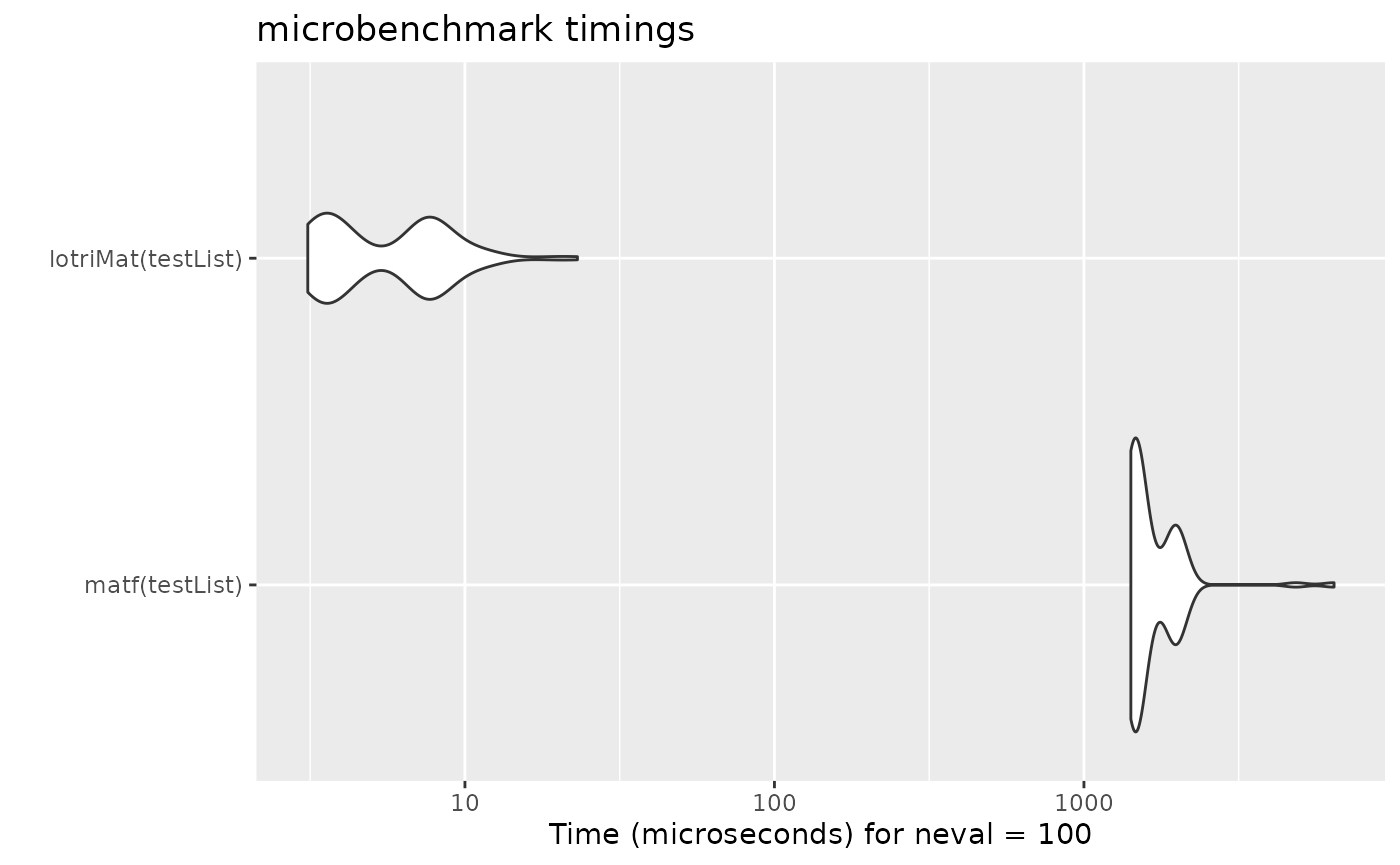
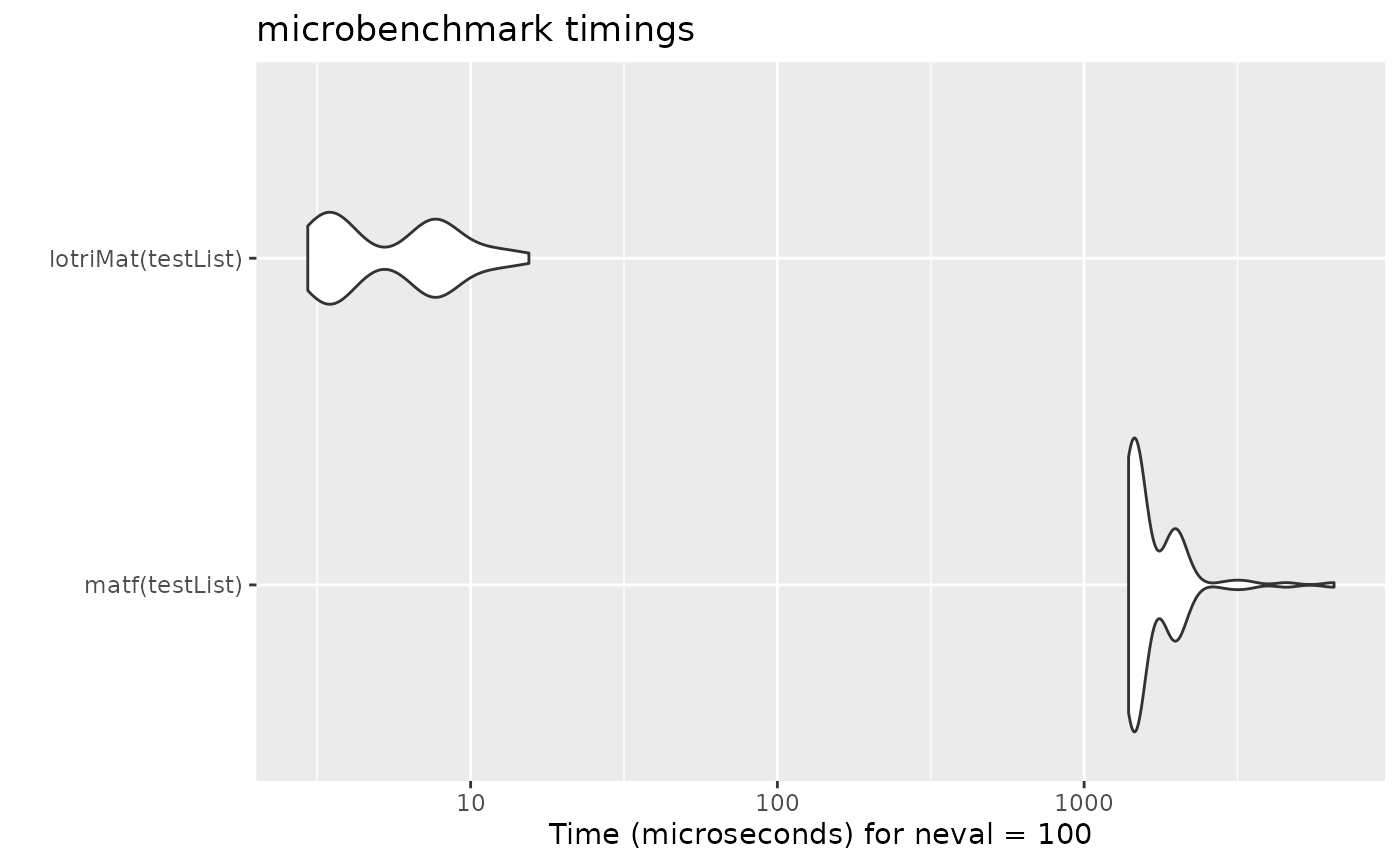
Deploying to gh-pages from @ nlmixr2/lotri@6a2f2be0de34857929dace6bc44d8ea41630704d 🚀

diff --git a/reference/dot-lotriPointers.html b/reference/dot-lotriPointers.html
@@ -59,34 +59,34 @@
     <div class="sourceCode"><pre class="sourceCode r"><code><span class="r-in"><span></span></span>
 <span class="r-in"><span><span class="fu">.lotriPointers</span><span class="op">(</span><span class="op">)</span></span></span>
 <span class="r-out co"><span class="r-pr">#&gt;</span> $lotriLstToMat</span>
-<span class="r-out co"><span class="r-pr">#&gt;</span> &lt;pointer: 0x7fbdde46f1a0&gt;</span>
+<span class="r-out co"><span class="r-pr">#&gt;</span> &lt;pointer: 0x7f21ae3731a0&gt;</span>
 <span class="r-out co"><span class="r-pr">#&gt;</span> </span>
 <span class="r-out co"><span class="r-pr">#&gt;</span> $asLotriMat</span>
-<span class="r-out co"><span class="r-pr">#&gt;</span> &lt;pointer: 0x7fbdde46d340&gt;</span>
+<span class="r-out co"><span class="r-pr">#&gt;</span> &lt;pointer: 0x7f21ae371340&gt;</span>
 <span class="r-out co"><span class="r-pr">#&gt;</span> </span>
 <span class="r-out co"><span class="r-pr">#&gt;</span> $lotriSep</span>
-<span class="r-out co"><span class="r-pr">#&gt;</span> &lt;pointer: 0x7fbdde470e90&gt;</span>
+<span class="r-out co"><span class="r-pr">#&gt;</span> &lt;pointer: 0x7f21ae374e90&gt;</span>
 <span class="r-out co"><span class="r-pr">#&gt;</span> </span>
 <span class="r-out co"><span class="r-pr">#&gt;</span> $lotriAllNames</span>
-<span class="r-out co"><span class="r-pr">#&gt;</span> &lt;pointer: 0x7fbdde471430&gt;</span>
+<span class="r-out co"><span class="r-pr">#&gt;</span> &lt;pointer: 0x7f21ae375430&gt;</span>
 <span class="r-out co"><span class="r-pr">#&gt;</span> </span>
 <span class="r-out co"><span class="r-pr">#&gt;</span> $lotriGetBounds</span>
-<span class="r-out co"><span class="r-pr">#&gt;</span> &lt;pointer: 0x7fbdde46d8e0&gt;</span>
+<span class="r-out co"><span class="r-pr">#&gt;</span> &lt;pointer: 0x7f21ae3718e0&gt;</span>
 <span class="r-out co"><span class="r-pr">#&gt;</span> </span>
 <span class="r-out co"><span class="r-pr">#&gt;</span> $lotriMaxNu</span>
-<span class="r-out co"><span class="r-pr">#&gt;</span> &lt;pointer: 0x7fbdde470920&gt;</span>
+<span class="r-out co"><span class="r-pr">#&gt;</span> &lt;pointer: 0x7f21ae374920&gt;</span>
 <span class="r-out co"><span class="r-pr">#&gt;</span> </span>
 <span class="r-out co"><span class="r-pr">#&gt;</span> $isLotri</span>
-<span class="r-out co"><span class="r-pr">#&gt;</span> &lt;pointer: 0x7fbdde471310&gt;</span>
+<span class="r-out co"><span class="r-pr">#&gt;</span> &lt;pointer: 0x7f21ae375310&gt;</span>
 <span class="r-out co"><span class="r-pr">#&gt;</span> </span>
 <span class="r-out co"><span class="r-pr">#&gt;</span> $lotriRcm</span>
-<span class="r-out co"><span class="r-pr">#&gt;</span> &lt;pointer: 0x7fbdde47bf20&gt;</span>
+<span class="r-out co"><span class="r-pr">#&gt;</span> &lt;pointer: 0x7f21ae37ff20&gt;</span>
 <span class="r-out co"><span class="r-pr">#&gt;</span> </span>
 <span class="r-out co"><span class="r-pr">#&gt;</span> $lotriNearPDc</span>
-<span class="r-out co"><span class="r-pr">#&gt;</span> &lt;pointer: 0x7fbdde476a50&gt;</span>
+<span class="r-out co"><span class="r-pr">#&gt;</span> &lt;pointer: 0x7f21ae37aa50&gt;</span>
 <span class="r-out co"><span class="r-pr">#&gt;</span> </span>
 <span class="r-out co"><span class="r-pr">#&gt;</span> $lotriNearPDsexp</span>
-<span class="r-out co"><span class="r-pr">#&gt;</span> &lt;pointer: 0x7fbdde476f90&gt;</span>
+<span class="r-out co"><span class="r-pr">#&gt;</span> &lt;pointer: 0x7f21ae37af90&gt;</span>
 <span class="r-out co"><span class="r-pr">#&gt;</span> </span>
 </code></pre></div>
     </div>

diff --git a/articles/lotri-motivation.html b/articles/lotri-motivation.html
@@ -64,7 +64,7 @@
                         <h4 data-toc-skip class="author">Matthew
 Fidler</h4>
             
-            <h4 data-toc-skip class="date">2025-08-19</h4>
+            <h4 data-toc-skip class="date">2025-08-29</h4>
       
       <small class="dont-index">Source: <a href="https://github.com/nlmixr2/lotri/blob/main/vignettes/lotri-motivation.Rmd" class="external-link"><code>vignettes/lotri-motivation.Rmd</code></a></small>
       <div class="d-none name"><code>lotri-motivation.Rmd</code></div>
@@ -227,9 +227,9 @@ concatenation with <code>lotriMat</code></p>
 <span></span>
 <span><span class="fu"><a href="https://rdrr.io/r/base/print.html" class="external-link">print</a></span><span class="op">(</span><span class="va">mb</span><span class="op">)</span></span>
 <span><span class="co">#&gt; Unit: microseconds</span></span>
-<span><span class="co">#&gt;                expr      min       lq       mean    median        uq      max</span></span>
-<span><span class="co">#&gt;      matf(testList) 1417.836 1450.923 1697.69990 1490.2310 1960.9895 6430.069</span></span>
-<span><span class="co">#&gt;  lotriMat(testList)    3.106    3.607    6.17723    5.3705    7.7845   23.093</span></span>
+<span><span class="co">#&gt;                expr      min        lq       mean    median        uq      max</span></span>
+<span><span class="co">#&gt;      matf(testList) 1396.256 1441.5105 1738.85710 1480.8240 1948.2520 6529.677</span></span>
+<span><span class="co">#&gt;  lotriMat(testList)    2.945    3.4515    6.10043    5.6205    7.9045   15.489</span></span>
 <span><span class="co">#&gt;  neval</span></span>
 <span><span class="co">#&gt;    100</span></span>
 <span><span class="co">#&gt;    100</span></span>
